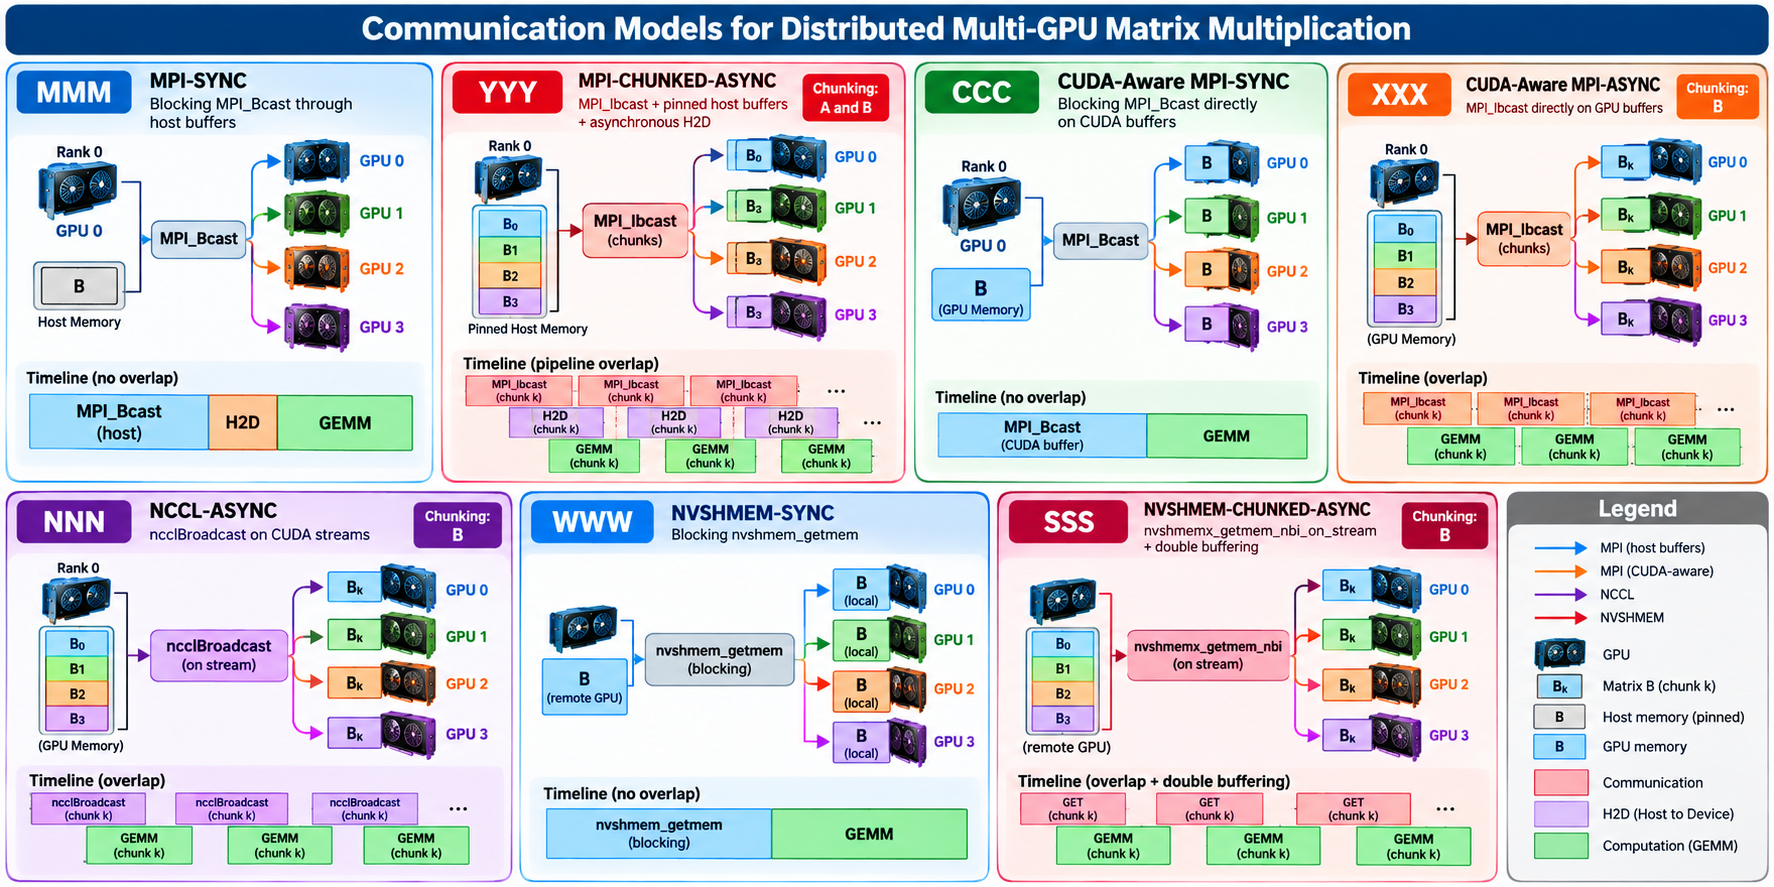
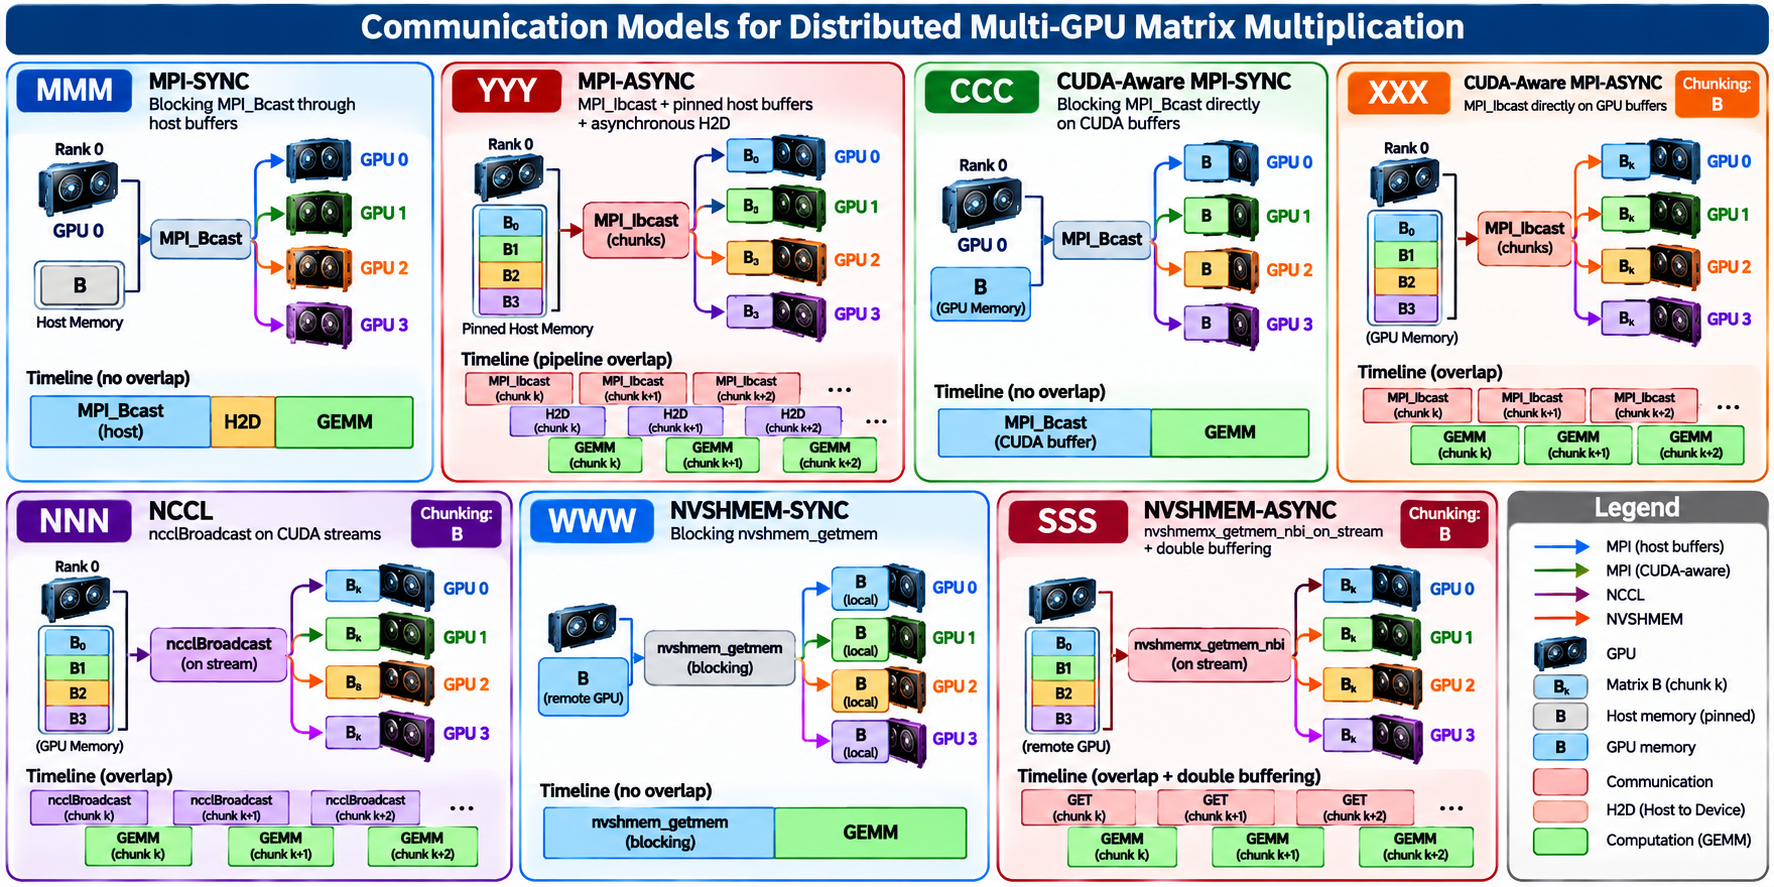
docs: update the text in GUIDE.md and improve the img

Changed region(s): [[0.0, 0.0, 1.0, 1.0]]

diff --git a/GUIDE.md b/GUIDE.md
@@ -30,7 +30,7 @@ MGXBench compares two matrix-multiplication decomposition strategies: **1D Row-B
 | `CCC` | CUDA-AWARE-SYNC |
 | `XXX` | CUDA-AWARE-ASYNC |
 | `NNN` | NCCL-ASYNC |
-| `WWW` | NVSHMEM-CHUNKED-SYNC |
+| `WWW` | NVSHMEM-SYNC |
 | `SSS` | NVSHMEM-ASYNC |
 
 The *asynchronous* labels describe the implemented strategy; they do not, by themselves, guarantee effective overlap between communication and computation. Such overlap must be verified through timeline-based profiling.
